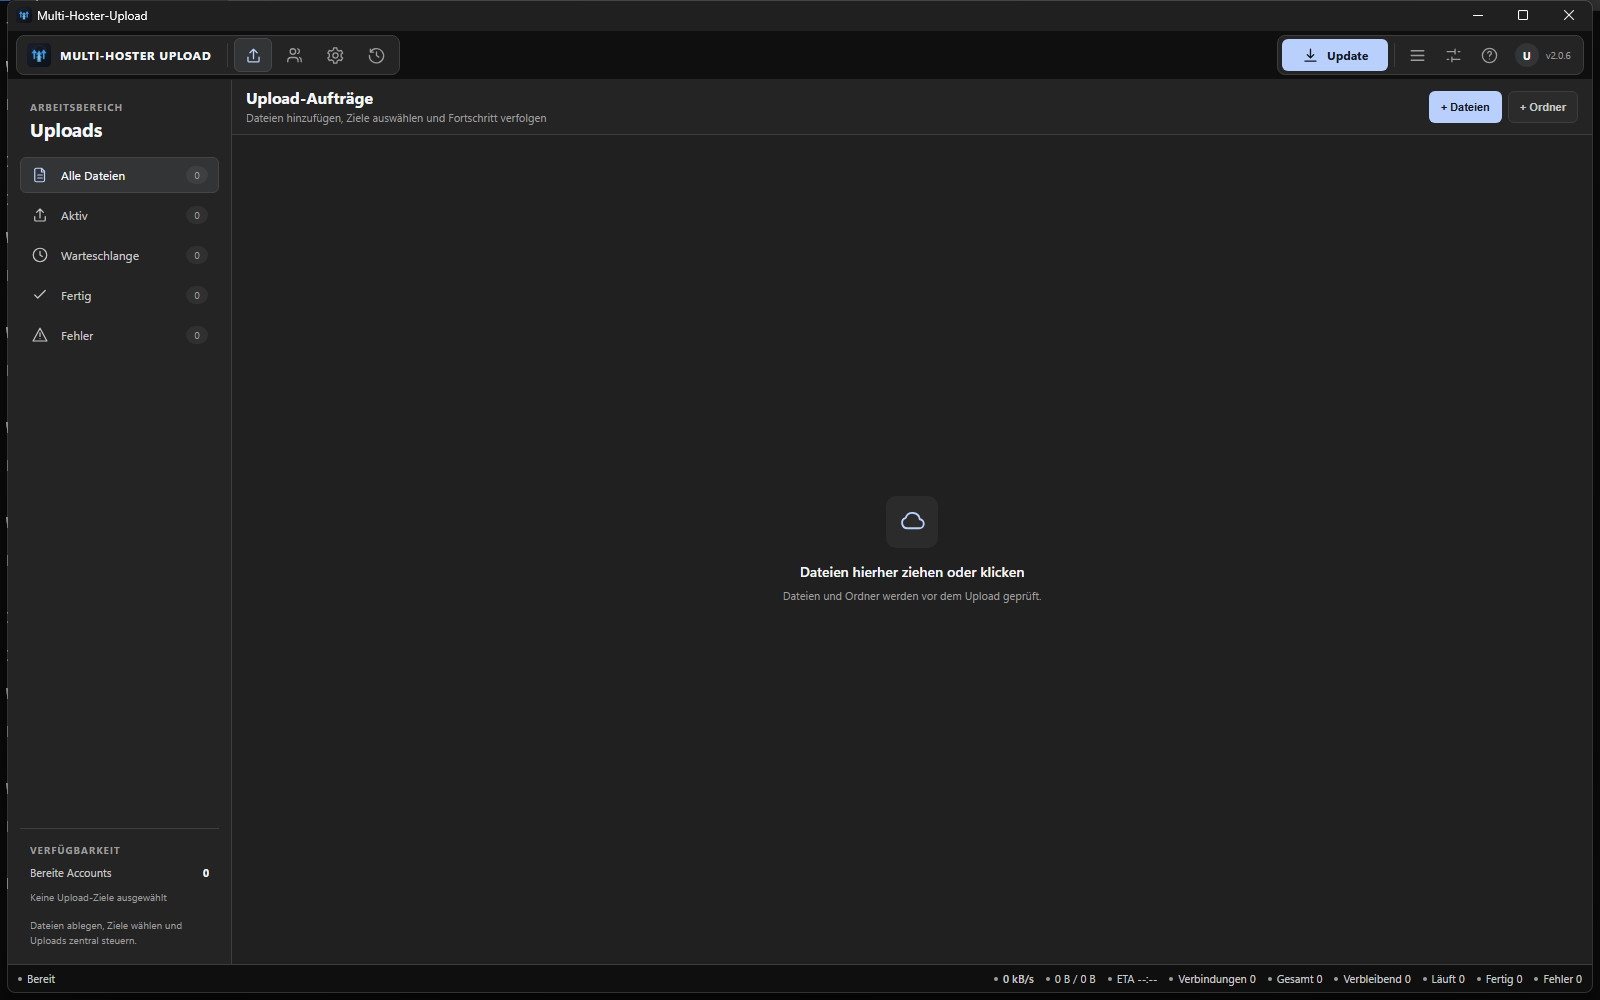
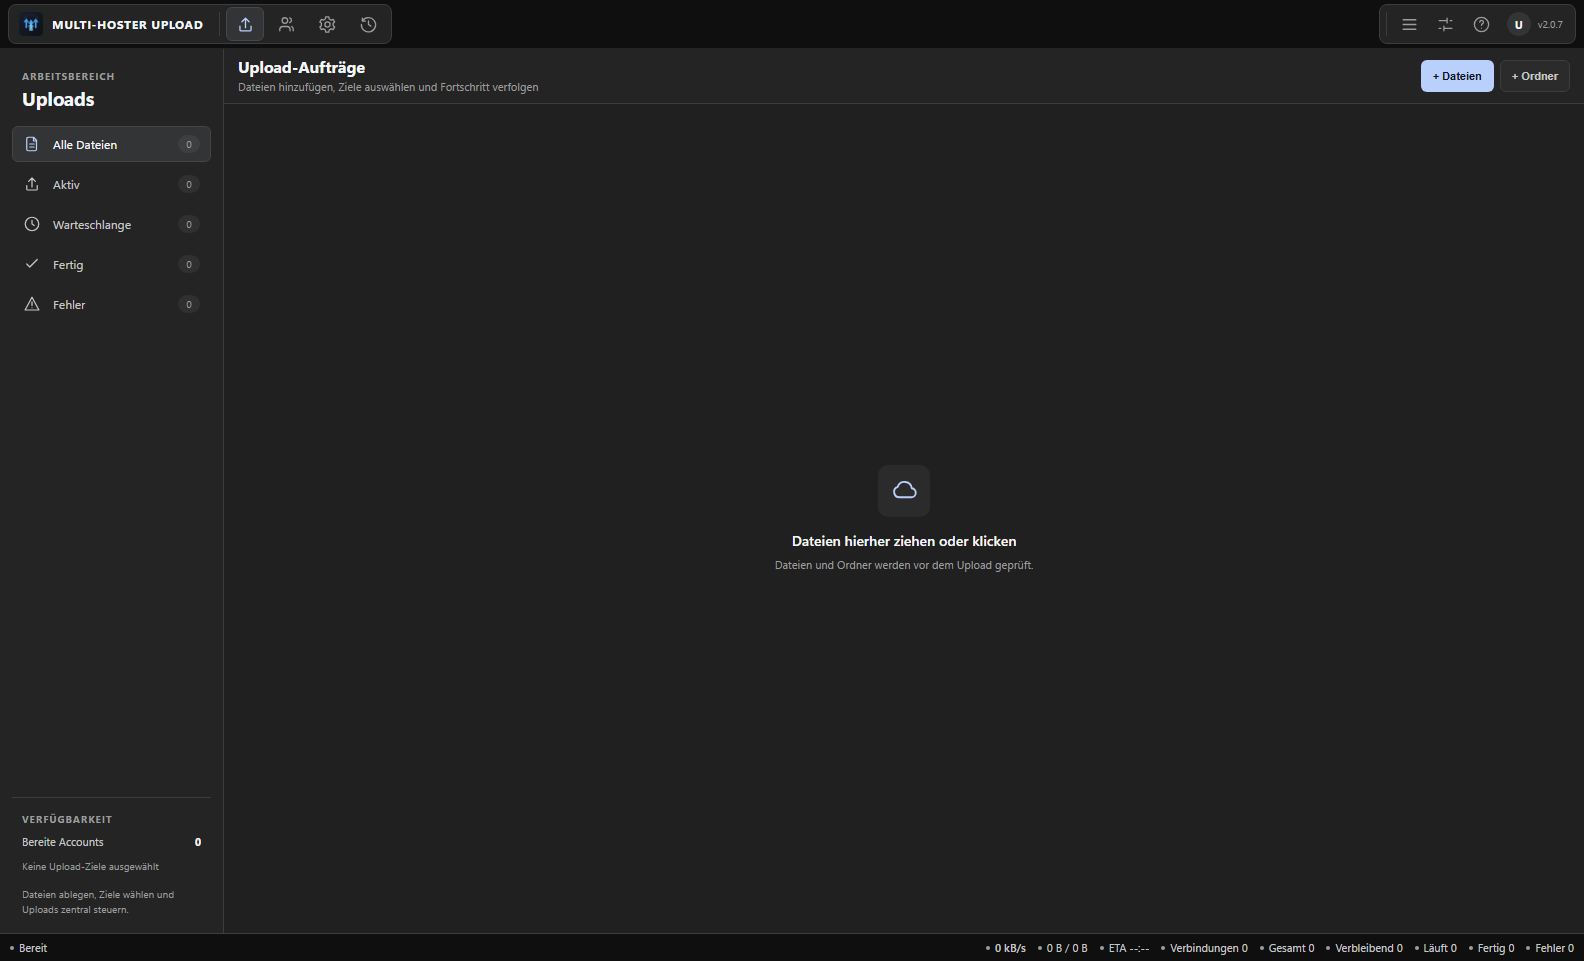
fix(updater): show header action only when update is available
Hide the header update action until a newer release is confirmed.
Register update notifications before renderer initialization so startup cannot miss them.
Refresh the public product screenshot and release metadata for v2.0.7.

diff --git a/tests/ui-smoke.js b/tests/ui-smoke.js
@@ -32,7 +32,13 @@ const ConfigStore = require(path.join(process.cwd(), 'lib', 'config-store'));
 const updaterModule = require(path.join(process.cwd(), 'lib', 'updater'));
 let preparedUpdateMockCalls = 0;
 let launchedUpdateMockCalls = 0;
-updaterModule.checkForUpdate = async () => ({ available: false });
+let updateCheckMockCalls = 0;
+updaterModule.checkForUpdate = async () => {
+  updateCheckMockCalls++;
+  return updateCheckMockCalls === 1
+    ? { available: true, remoteVersion: '9.9.8' }
+    : { available: false };
+};
 updaterModule.prepareUpdate = async (onProgress) => {
   preparedUpdateMockCalls++;
   if (onProgress) onProgress({ stage: 'prepared', percent: 100 });
@@ -44,9 +50,20 @@ updaterModule.launchPreparedUpdate = () => {
 };
 const initialIpcHandlers = new Map();
 const registerIpcHandler = ipcMain.handle.bind(ipcMain);
+let initialConfigReadDelayed = false;
 ipcMain.handle = (channel, listener) => {
-  if (!initialIpcHandlers.has(channel)) initialIpcHandlers.set(channel, listener);
-  return registerIpcHandler(channel, listener);
+  const registeredListener = channel === 'get-config'
+    ? async (...args) => {
+        const result = await listener(...args);
+        if (!initialConfigReadDelayed) {
+          initialConfigReadDelayed = true;
+          await new Promise(resolve => setTimeout(resolve, 4000));
+        }
+        return result;
+      }
+    : listener;
+  if (!initialIpcHandlers.has(channel)) initialIpcHandlers.set(channel, registeredListener);
+  return registerIpcHandler(channel, registeredListener);
 };
 function restoreInitialIpcHandler(channel) {
   ipcMain.removeHandler(channel);
@@ -132,6 +149,10 @@ setTimeout(async () => {
   }
 
   try {
+    const startupUpdateState = await wc.executeJavaScript('(() => { const button = document.getElementById("headerUpdateBtn"); return [_knownUpdateInfo?.remoteVersion, button?.hidden, getComputedStyle(button).display, document.getElementById("updateBanner")?.style.display].join("|"); })()');
+    check('Startup update survives pending renderer initialization', startupUpdateState === '9.9.8|false|flex|flex');
+    await wc.executeJavaScript('_knownUpdateInfo = null; closeUpdateDialog(); _syncHeaderUpdateState();');
+
     await wc.executeJavaScript('queueJobs = []; selectedFiles = []; selectedJobIds.clear(); rebuildJobIndex(); setUploadSidebarFilter("all"); updateUploadView(); renderQueueTable(); updateStatusBar();');
     console.log('\\n=== Upload View ===');
 
@@ -149,6 +170,9 @@ setTimeout(async () => {
 
     const headerUpdateButtonExists = await wc.executeJavaScript('Boolean(document.getElementById("headerUpdateBtn"))');
     check('App header exposes the update action', headerUpdateButtonExists);
+
+    const initialHeaderUpdateVisibility = await wc.executeJavaScript('(() => { const button = document.getElementById("headerUpdateBtn"); return [button?.hidden, getComputedStyle(button).display].join("|"); })()');
+    check('Header update action stays hidden until an update is available', initialHeaderUpdateVisibility === 'true|none');
 
     const initialUpdateLabel = await wc.executeJavaScript('document.querySelector("#headerUpdateBtn .header-update-label")?.textContent?.trim()');
     check('App header uses the compact update label', initialUpdateLabel === 'Update');
@@ -492,13 +516,20 @@ setTimeout(async () => {
       document.getElementById('headerUpdateBtn').click();
     })()\`);
     await new Promise(resolve => setTimeout(resolve, 100));
-    const coordinatedUpdateBusy = await wc.executeJavaScript('(() => { const manual = document.getElementById("manualUpdateCheckBtn"); const header = document.getElementById("headerUpdateBtn"); return [manual?.disabled, manual?.getAttribute("aria-busy"), manual?.textContent?.trim(), header?.disabled, header?.getAttribute("aria-busy")].join("|"); })()');
-    check('All update entry points share one in-flight check', updateCheckCallCount === 1 && coordinatedUpdateBusy === 'true|true|Prüfe…|true|true');
+    const coordinatedUpdateBusy = await wc.executeJavaScript('(() => { const manual = document.getElementById("manualUpdateCheckBtn"); const header = document.getElementById("headerUpdateBtn"); return [manual?.disabled, manual?.getAttribute("aria-busy"), manual?.textContent?.trim(), header?.disabled, header?.getAttribute("aria-busy"), header?.hidden].join("|"); })()');
+    check('All update entry points share one in-flight check', updateCheckCallCount === 1 && coordinatedUpdateBusy === 'true|true|Prüfe…|true|true|true');
     updateCheckResolvers.splice(0).forEach(resolve => resolve({ available: false, error: 'Simulierter Netzwerkfehler' }));
     await new Promise(resolve => setTimeout(resolve, 150));
-    const coordinatedUpdateError = await wc.executeJavaScript('(() => { const manual = document.getElementById("manualUpdateCheckBtn"); const header = document.getElementById("headerUpdateBtn"); return [manual?.disabled, header?.disabled, manual?.textContent?.trim(), document.getElementById("copyToast")?.textContent?.trim()].join("|"); })()');
-    check('Settings update check uses the shared error contract', coordinatedUpdateError === 'false|false|Nach Updates suchen|Updateprüfung fehlgeschlagen');
+    const coordinatedUpdateError = await wc.executeJavaScript('(() => { const manual = document.getElementById("manualUpdateCheckBtn"); const header = document.getElementById("headerUpdateBtn"); return [manual?.disabled, header?.disabled, header?.hidden, manual?.textContent?.trim(), document.getElementById("copyToast")?.textContent?.trim()].join("|"); })()');
+    check('Settings update check uses the shared error contract', coordinatedUpdateError === 'false|false|true|Nach Updates suchen|Updateprüfung fehlgeschlagen');
     await wc.executeJavaScript('document.getElementById("copyToast")?.classList.remove("show")');
+
+    await wc.executeJavaScript('requestUpdateCheck(); true');
+    await new Promise(resolve => setTimeout(resolve, 100));
+    updateCheckResolvers.splice(0).forEach(resolve => resolve({ available: false }));
+    await new Promise(resolve => setTimeout(resolve, 150));
+    const noUpdateHeaderVisibility = await wc.executeJavaScript('(() => { const button = document.getElementById("headerUpdateBtn"); return [button?.hidden, getComputedStyle(button).display].join("|"); })()');
+    check('Successful no-update result keeps the header action hidden', noUpdateHeaderVisibility === 'true|none');
 
     const settingsNavigation = await wc.executeJavaScript('(() => { const buttons = [...document.querySelectorAll(".settings-nav-button")]; return [buttons.length, buttons.map(button => button.textContent.trim()).join("|"), document.querySelector(".settings-nav-button.active")?.dataset.settingsPage, document.getElementById("settingsSearchInput")?.placeholder].join("::"); })()');
     check('Settings use the task-based sidebar navigation', settingsNavigation === '8::Allgemein|Uploads|Automatik|Benachrichtigungen|Logs & Support|Fernsteuerung|Diagnose-Zugriff|Backup & Übertragen::allgemein::Einstellungen durchsuchen');
@@ -1043,8 +1074,8 @@ setTimeout(async () => {
     check('Responsive queue keeps the fixed virtual row height', queueProgressVisibility.standard.rowHeight === 28 && queueProgressVisibility.minimum.rowHeight === 28);
     check('Minimum window keeps the settings header compact', compactSettingsHeader <= 58);
 
-    const updateOverlayState = await wc.executeJavaScript('document.getElementById("headerUpdateBtn").focus(); showUpdateBanner({ remoteVersion: "9.9.9" }); (() => { const overlay = document.getElementById("updateBanner"); const dialog = overlay?.querySelector(".update-dialog"); return [overlay?.classList.contains("update-overlay"), overlay?.style.display, dialog?.getAttribute("role"), dialog?.getAttribute("aria-modal")].join("|"); })()');
-    check('Available update opens an accessible update dialog', updateOverlayState === 'true|flex|dialog|true');
+    const updateOverlayState = await wc.executeJavaScript('_knownUpdateInfo = { available: true, remoteVersion: "9.9.9" }; _syncHeaderUpdateState(); document.getElementById("headerUpdateBtn").focus(); showUpdateBanner({ remoteVersion: "9.9.9" }); (() => { const overlay = document.getElementById("updateBanner"); const dialog = overlay?.querySelector(".update-dialog"); const button = document.getElementById("headerUpdateBtn"); return [overlay?.classList.contains("update-overlay"), overlay?.style.display, dialog?.getAttribute("role"), dialog?.getAttribute("aria-modal"), button?.hidden, getComputedStyle(button).display].join("|"); })()');
+    check('Available update opens an accessible update dialog', updateOverlayState === 'true|flex|dialog|true|false|flex');
 
     await new Promise(resolve => setTimeout(resolve, 100));
     const updateModalKeyboard = await wc.executeJavaScript(\`(() => {
@@ -1086,20 +1117,22 @@ setTimeout(async () => {
       overlay.dispatchEvent(new MouseEvent('click', { bubbles: true }));
       document.dispatchEvent(new KeyboardEvent('keydown', { key: 'Escape', bubbles: true, cancelable: true }));
       const progress = document.getElementById('updateProgressBar');
+      const header = document.getElementById('headerUpdateBtn');
       return {
         display: overlay.style.display,
         hidden: overlay.getAttribute('aria-hidden'),
         closeDisabled: document.getElementById('updateCloseBtn').disabled,
         dismissDisabled: document.getElementById('dismissUpdateBtn').disabled,
+        headerHidden: header.hidden,
         progressLabel: progress.getAttribute('aria-label'),
         progressText: progress.getAttribute('aria-valuetext')
       };
     })()\`);
-    check('Busy update keeps its progress dialog open', busyUpdateState.display === 'flex' && busyUpdateState.hidden === 'false' && busyUpdateState.closeDisabled === true && busyUpdateState.dismissDisabled === true);
+    check('Busy update keeps its progress dialog open', busyUpdateState.display === 'flex' && busyUpdateState.hidden === 'false' && busyUpdateState.closeDisabled === true && busyUpdateState.dismissDisabled === true && busyUpdateState.headerHidden === false);
     check('Update progress exposes an accessible live value', busyUpdateState.progressLabel === 'Update-Fortschritt' && busyUpdateState.progressText === 'Download 50%');
 
-    const updateErrorRecovery = await wc.executeJavaScript('handleUpdateProgress({ stage: "error", error: "Netzwerkfehler" }); document.getElementById("dismissUpdateBtn").click(); document.getElementById("updateBanner").style.display + "|" + document.getElementById("updateCloseBtn").disabled + "|" + document.getElementById("dismissUpdateBtn").disabled');
-    check('Update errors restore all close actions', updateErrorRecovery === 'none|false|false');
+    const updateErrorRecovery = await wc.executeJavaScript('handleUpdateProgress({ stage: "error", error: "Netzwerkfehler" }); document.getElementById("dismissUpdateBtn").click(); document.getElementById("updateBanner").style.display + "|" + document.getElementById("updateCloseBtn").disabled + "|" + document.getElementById("dismissUpdateBtn").disabled + "|" + document.getElementById("headerUpdateBtn").hidden');
+    check('Update errors restore all close actions', updateErrorRecovery === 'none|false|false|false');
 
     const initialInstallUpdateHandler = initialIpcHandlers.get('app:install-update');
     const initialUpdateQueueHandler = initialIpcHandlers.get('save-pending-queue');
@@ -1267,7 +1300,7 @@ try {
   const result = execFileSync(
     electronPath,
     [`--user-data-dir=${userDataPath}`, '--require', injectPath, mainPath],
-    { cwd: path.join(__dirname, '..'), timeout: 45000, encoding: 'utf-8', stdio: ['pipe', 'pipe', 'pipe'] }
+    { cwd: path.join(__dirname, '..'), timeout: 60000, encoding: 'utf-8', stdio: ['pipe', 'pipe', 'pipe'] }
   );
   console.log(result);
   const isolatedConfigPath = path.join(userDataPath, 'electron-config.json');

diff --git a/tests/updater-version.test.js b/tests/updater-version.test.js
@@ -83,7 +83,7 @@ test('a prepared installer launches at most once', () => {
 
 test('release plan keeps product artifacts separate from the transport tag', async () => {
   const { createReleasePlan, parseReleaseArgs, renderLatestYml } = await import(releasePlanUrl);
-  const plan = createReleasePlan(parseReleaseArgs(['2.0.6', '--transport-tag', 'v3.3.114', 'Interface', 'redesign']));
+  const plan = createReleasePlan(parseReleaseArgs(['2.0.7', '--transport-tag', 'v3.3.115', 'Update', 'visibility']));
   const latestYml = renderLatestYml(plan, 'abc123', 456, '2026-08-07T12:00:00.000Z');
   assert.deepEqual({
     version: plan.version,
@@ -93,17 +93,17 @@ test('release plan keeps product artifacts separate from the transport tag', asy
     expectedArtifacts: plan.expectedArtifacts,
     latestYml
   }, {
-    version: '2.0.6',
-    transportTag: 'v3.3.114',
-    releaseTitle: 'Multi-Hoster-Upload v2.0.6',
-    releaseBody: 'Interface redesign',
+    version: '2.0.7',
+    transportTag: 'v3.3.115',
+    releaseTitle: 'Multi-Hoster-Upload v2.0.7',
+    releaseBody: 'Update visibility',
     expectedArtifacts: [
-      'Multi-Hoster-Upload Setup 2.0.6.exe',
-      'Multi-Hoster-Upload 2.0.6.exe',
-      'Multi-Hoster-Upload Setup 2.0.6.exe.blockmap',
+      'Multi-Hoster-Upload Setup 2.0.7.exe',
+      'Multi-Hoster-Upload 2.0.7.exe',
+      'Multi-Hoster-Upload Setup 2.0.7.exe.blockmap',
       'latest.yml'
     ],
-    latestYml: "version: 2.0.6\nfiles:\n  - url: Multi-Hoster-Upload Setup 2.0.6.exe\n    sha512: abc123\n    size: 456\npath: Multi-Hoster-Upload Setup 2.0.6.exe\nsha512: abc123\nreleaseDate: '2026-08-07T12:00:00.000Z'\n"
+    latestYml: "version: 2.0.7\nfiles:\n  - url: Multi-Hoster-Upload Setup 2.0.7.exe\n    sha512: abc123\n    size: 456\npath: Multi-Hoster-Upload Setup 2.0.7.exe\nsha512: abc123\nreleaseDate: '2026-08-07T12:00:00.000Z'\n"
   });
 });
 

diff --git a/renderer/app.js b/renderer/app.js
@@ -369,10 +369,6 @@ async function init() {
     if (versionLabel) versionLabel.textContent = `v${version}`;
   } catch {}
 
-  // Update listeners
-  window.api.onUpdateAvailable(showUpdateBanner);
-  window.api.onUpdateProgress(handleUpdateProgress);
-
   window.api.onUploadProgress((data) => {
     handleProgress(data);
   });
@@ -660,6 +656,7 @@ function _syncHeaderUpdateState() {
       ? `Update v${version || 'unbekannt'} verfügbar. Klicken zum Installieren.`
       : 'Nach Aktualisierungen suchen';
   if (button) {
+    button.hidden = !available;
     button.classList.toggle('update-available', available);
     button.classList.toggle('is-checking', _updateCheckBusy);
     button.disabled = _updateCheckBusy;
@@ -6734,6 +6731,8 @@ function updateStatsPanel() {
 }
 
 // --- Start ---
+window.api.onUpdateAvailable(showUpdateBanner);
+window.api.onUpdateProgress(handleUpdateProgress);
 window.api.onPrepareClose(prepareForWindowClose);
 init().then(() => {
   window.api.signalCloseHandshakeReady();

diff --git a/renderer/index.html b/renderer/index.html
@@ -53,7 +53,7 @@
     </div>
     <div class="header-spacer" aria-hidden="true"></div>
     <div class="header-cluster header-utilities">
-      <button class="header-update-button" id="headerUpdateBtn" title="Nach Aktualisierungen suchen" aria-label="Nach Aktualisierungen suchen" data-tooltip="Nach Aktualisierungen suchen">
+      <button class="header-update-button" id="headerUpdateBtn" title="Nach Aktualisierungen suchen" aria-label="Nach Aktualisierungen suchen" data-tooltip="Nach Aktualisierungen suchen" hidden>
         <svg class="header-action-icon" aria-hidden="true"><use href="#icon-download"></use></svg>
         <span class="header-update-label">Update</span>
       </button>

diff --git a/tests/public-release-verifier.test.js b/tests/public-release-verifier.test.js
@@ -48,7 +48,7 @@ function createStage() {
   return stage;
 }
 
-function verify(stage, version = '2.0.6') {
+function verify(stage, version = '2.0.7') {
   return spawnSync(process.execPath, ['scripts/verify-public-release.mjs', '--source-only', '--version', version], {
     cwd: stage,
     encoding: 'utf8'

diff --git a/renderer/styles.css b/renderer/styles.css
@@ -1772,6 +1772,10 @@ select.hs-input { max-width: none; width: auto; min-width: 140px; }
   transition: background-color .14s, transform .14s;
 }
 
+.header-update-button[hidden] {
+  display: none;
+}
+
 .header-update-button::after {
   content: attr(data-tooltip);
   position: absolute;

diff --git a/README.md b/README.md
@@ -15,7 +15,7 @@ Multi-Hoster-Upload is a Windows desktop app for managing large file batches acr
 - Control per-hoster concurrency, bandwidth limits, retries, folder monitoring, notifications, and completed-item cleanup.
 - Keep local upload history and copy completed links in bulk.
 - Transfer accounts and settings with a 75-character encrypted online key while encryption and decryption stay on the client.
-- Check for updates from the header and install available releases from an accessible update dialog.
+- Check for updates from Settings or Help; when a newer release is available, install it from the header update action and accessible update dialog.
 
 ## Supported hosters
 
